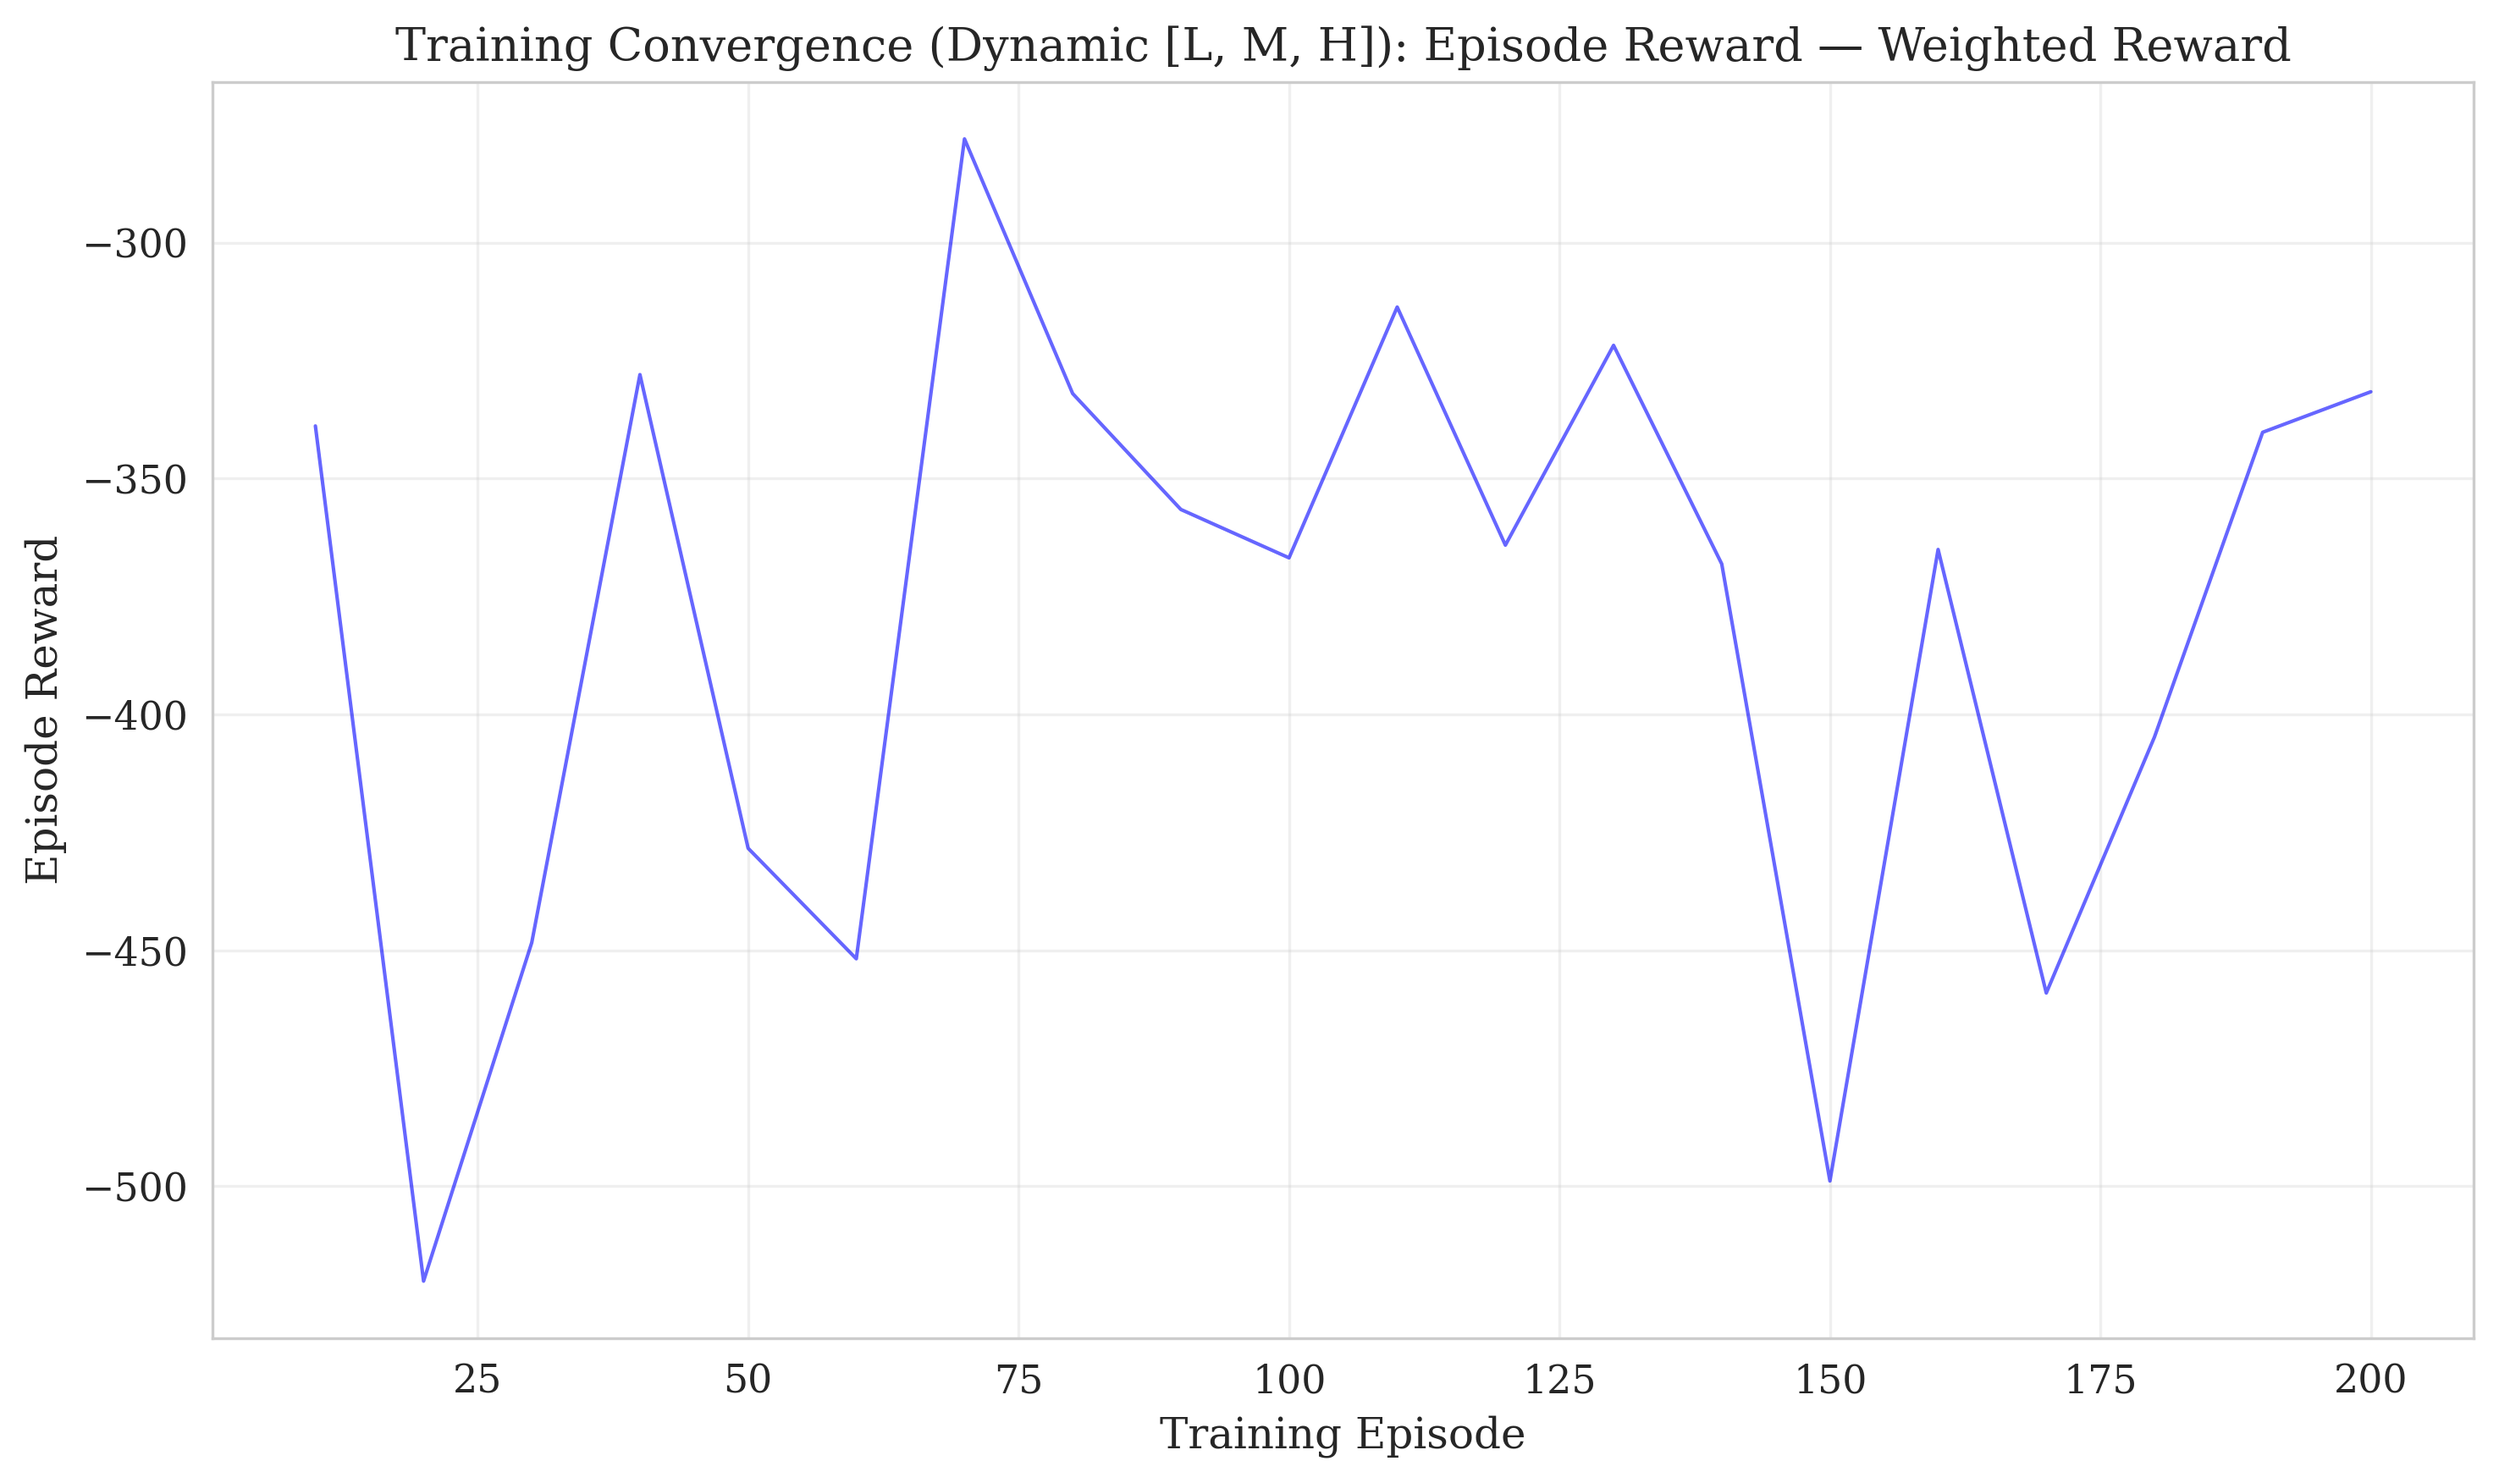
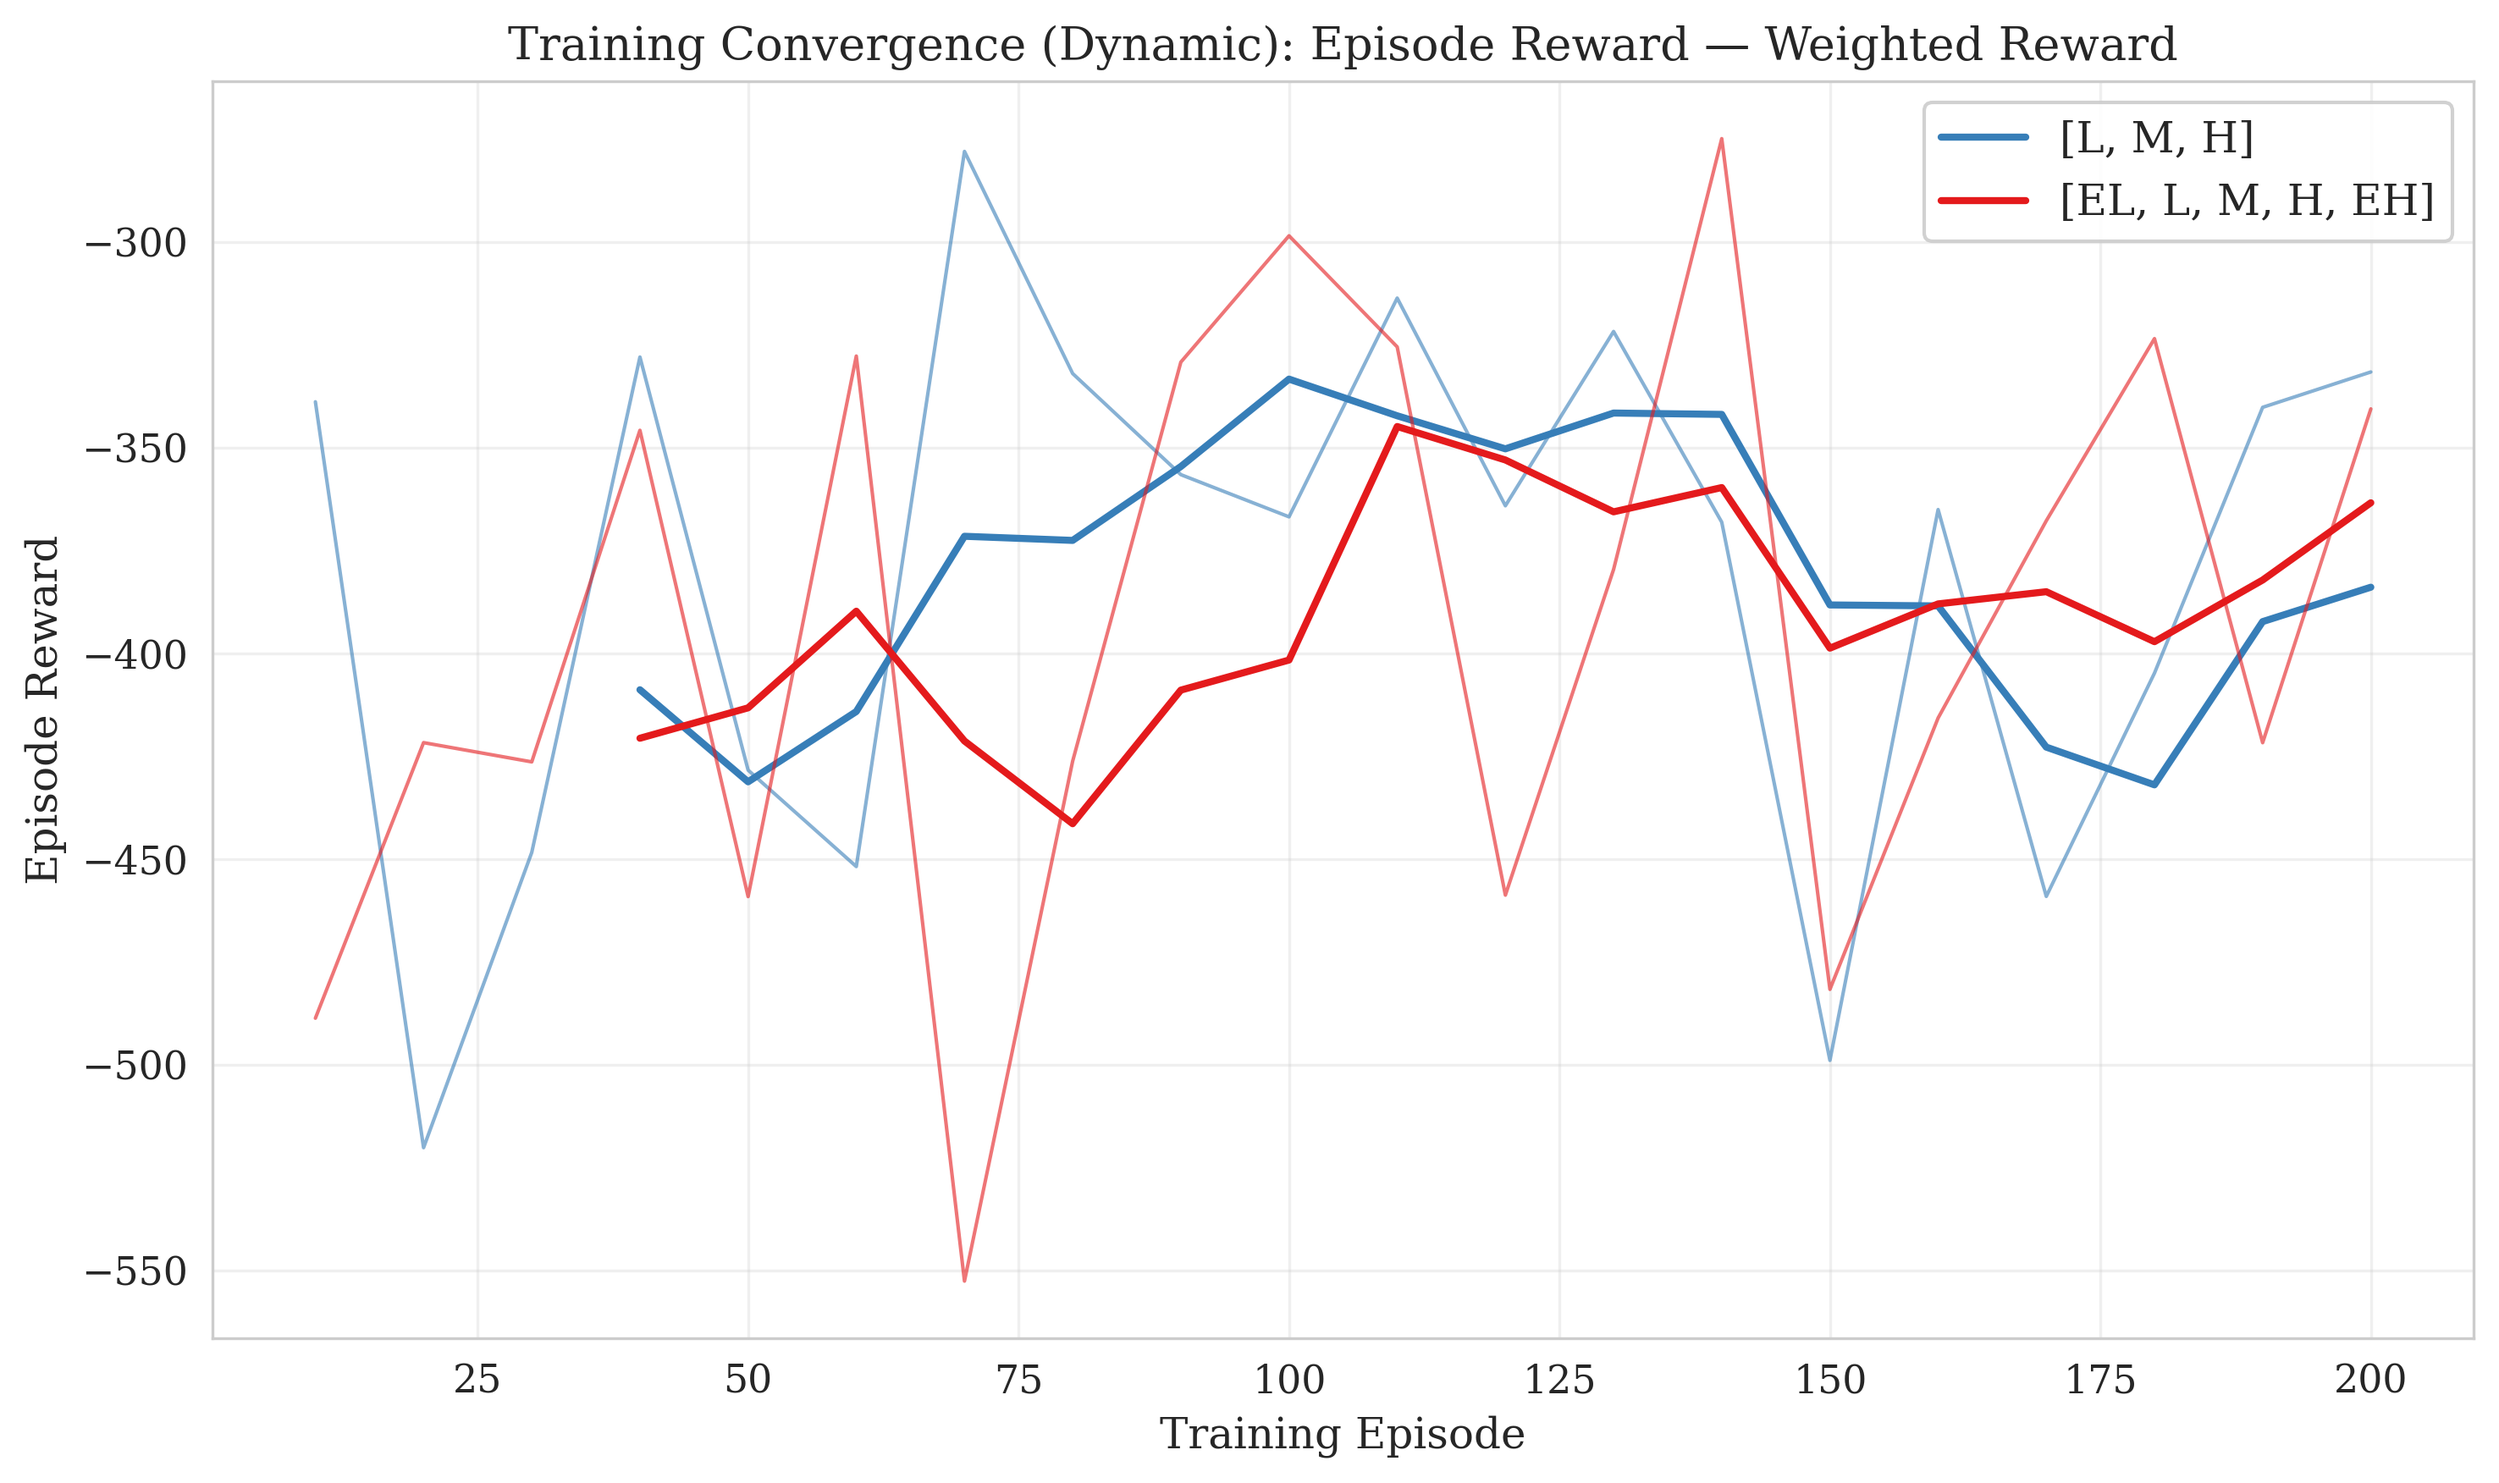
ver4.1

diff --git a/figures_static.py b/figures_static.py
@@ -129,6 +129,48 @@ def _single_timeseries(data, xlabel, ylabel, title, color, out_path, label):
     print(f"  ✓ {os.path.basename(out_path)}")
 
 
+def _multi_timeseries(exps, metric_key, xlabel, ylabel, title,
+                      colors, out_path, label_key):
+    """
+    Plot one time-series curve per experiment on the same axes.
+    Each curve is labelled by its dynamic profile pool abbreviation.
+    """
+    fig, ax = plt.subplots(figsize=(10, 6))
+    plotted = 0
+    for exp, color in zip(exps, colors):
+        if metric_key not in exp['data']:
+            continue
+        pool     = exp.get('dynamic_profile_set', [])
+        curve_label = f"[{abbrev_profile(pool)}]" if pool else exp['scenario_str']
+        steps  = np.array(exp['data'][metric_key]['steps'])
+        values = np.array(exp['data'][metric_key]['values'])
+        ax.plot(steps, values, alpha=0.6, color=color, linewidth=1)
+        # Moving average for a cleaner trend line
+        if len(values) >= 20:
+            window = min(20, len(values) // 5)
+            ma = np.convolve(values, np.ones(window) / window, mode='valid')
+            ax.plot(steps[window - 1:], ma, color=color, linewidth=2,
+                    label=curve_label)
+        else:
+            ax.plot(steps, values, color=color, linewidth=2, label=curve_label)
+        plotted += 1
+
+    if not plotted:
+        plt.close(fig)
+        print(f"  ⚠  No data for {label_key}")
+        return
+
+    ax.set_xlabel(xlabel)
+    ax.set_ylabel(ylabel)
+    ax.set_title(title)
+    ax.legend(loc='best', framealpha=0.9)
+    ax.grid(True, alpha=0.3)
+    plt.tight_layout()
+    plt.savefig(out_path, dpi=FIGURE_DPI, bbox_inches='tight')
+    plt.close()
+    print(f"  ✓ {os.path.basename(out_path)} ({plotted} scenarios)")
+
+
 # ---------------------------------------------------------------------------
 # Figure 1: Training Convergence
 # ---------------------------------------------------------------------------
@@ -182,38 +224,124 @@ def fig1_training_convergence(experiments, output_dir):
             label_key=f'fig1b{sfx}',
         )
 
-        # 1c/1d: Dynamic time-series — first dynamic exp for this formulation
+        # 1c/1d: Dynamic time-series — all pools for this reward formulation,
+        # each pool as a separate curve on the same axes.
         if not dynamic_exps:
             print(f"  ℹ  No {rf} dynamic experiments for fig1c/1d")
             continue
 
-        dyn_exp  = dynamic_exps[0]
-        pool     = dyn_exp.get('dynamic_profile_set', [])
-        pool_str = f" [{abbrev_profile(pool)}]" if pool else ''
+        # Group by pool size so each distinct pool gets one curve
+        seen_pools = {}
+        for exp in dynamic_exps:
+            pool      = tuple(exp.get('dynamic_profile_set', []))
+            pool_size = len(pool)
+            if pool_size not in seen_pools:
+                seen_pools[pool_size] = exp
 
-        if 'episode_reward' in dyn_exp['data']:
-            _single_timeseries(
-                data=dyn_exp['data']['episode_reward'],
-                xlabel=LABEL_EPISODE, ylabel=LABEL_REWARD,
-                title=f'Training Convergence (Dynamic{pool_str}): '
-                      f'Episode Reward — {rf_title} Reward',
-                color=COLOR_REWARD,
-                out_path=os.path.join(output_dir,
-                                      f'fig1c_dynamic_reward{sfx}.{FIGURE_FORMAT}'),
-                label=f'fig1c{sfx}',
-            )
+        # Sort pools smallest→largest for consistent ordering
+        pool_exps = [seen_pools[k] for k in sorted(seen_pools)]
 
-        if 'episode_beta' in dyn_exp['data']:
-            _single_timeseries(
-                data=dyn_exp['data']['episode_beta'],
-                xlabel=LABEL_EPISODE, ylabel=LABEL_BETA,
-                title=f'Training Convergence (Dynamic{pool_str}): '
-                      f'QoS Performance — {rf_title} Reward',
-                color=COLOR_BETA,
-                out_path=os.path.join(output_dir,
-                                      f'fig1d_dynamic_beta{sfx}.{FIGURE_FORMAT}'),
-                label=f'fig1d{sfx}',
-            )
+        # Colour palette for the curves (one per pool)
+        curve_colors = ['#377eb8', '#e41a1c', '#4daf4a', '#984ea3']
+
+        # fig1c: Episode Reward
+        _multi_timeseries(
+            exps=pool_exps,
+            metric_key='episode_reward',
+            xlabel=LABEL_EPISODE,
+            ylabel=LABEL_REWARD,
+            title=f'Training Convergence (Dynamic): Episode Reward — {rf_title} Reward',
+            colors=curve_colors,
+            out_path=os.path.join(output_dir,
+                                  f'fig1c_dynamic_reward{sfx}.{FIGURE_FORMAT}'),
+            label_key=f'fig1c{sfx}',
+        )
+
+        # fig1d: QoS Performance
+        _multi_timeseries(
+            exps=pool_exps,
+            metric_key='episode_beta',
+            xlabel=LABEL_EPISODE,
+            ylabel=LABEL_BETA,
+            title=f'Training Convergence (Dynamic): QoS Performance — {rf_title} Reward',
+            colors=curve_colors,
+            out_path=os.path.join(output_dir,
+                                  f'fig1d_dynamic_beta{sfx}.{FIGURE_FORMAT}'),
+            label_key=f'fig1d{sfx}',
+        )
+
+    # ── Combined figures: 4 curves each (all pools × all reward formulations) ──
+    # Collect one experiment per (pool_size, reward_formulation) combination.
+    # Color encodes reward formulation; line style encodes pool.
+    # Blues  (#377eb8 solid, #377eb8 dashed)  → global
+    # Oranges (#d95f02 solid, #d95f02 dashed) → weighted
+    # Solid  → smaller pool  (e.g. [L,M,H])
+    # Dashed → larger pool   (e.g. [EL,L,M,H,EH])
+
+    rf_color = {'global': '#377eb8', 'weighted': '#d95f02'}
+    pool_style = {}   # pool_size → linestyle, filled in below
+
+    # Gather all unique (pool_size, rf) combos from dynamic experiments
+    combos = {}   # (pool_size, rf) → exp
+    for exp in experiments:
+        if exp['category'] != 'dynamic':
+            continue
+        rf        = exp.get('reward_formulation', 'global')
+        pool_size = len(exp.get('dynamic_profile_set', []))
+        key       = (pool_size, rf)
+        if key not in combos:
+            combos[key] = exp
+
+    if combos:
+        # Assign line styles to pool sizes: smallest pool → solid, rest → dashed styles
+        for i, ps in enumerate(sorted({k[0] for k in combos})):
+            pool_style[ps] = ['-', '--', ':', '-.'][i % 4]
+
+        for metric_key, ylabel, fname_base, title_base in [
+            ('episode_reward', LABEL_REWARD,
+             'fig1c_dynamic_reward_combined',
+             'Training Convergence (Dynamic): Episode Reward'),
+            ('episode_beta', LABEL_BETA,
+             'fig1d_dynamic_beta_combined',
+             'Training Convergence (Dynamic): QoS Performance'),
+        ]:
+            fig, ax = plt.subplots(figsize=(10, 6))
+            plotted = 0
+
+            for (pool_size, rf), exp in sorted(combos.items()):
+                if metric_key not in exp['data']:
+                    continue
+                pool  = exp.get('dynamic_profile_set', [])
+                color = rf_color.get(rf, 'gray')
+                ls    = pool_style.get(pool_size, '-')
+                pool_abbrev = abbrev_profile(pool) if pool else exp['scenario_str']
+                label = f"[{pool_abbrev}] {rf.capitalize()}"
+
+                steps  = np.array(exp['data'][metric_key]['steps'])
+                values = np.array(exp['data'][metric_key]['values'])
+                ax.plot(steps, values, alpha=0.2, color=color, linewidth=0.8,
+                        linestyle=ls)
+                if len(values) >= 20:
+                    window = min(20, len(values) // 5)
+                    ma = np.convolve(values, np.ones(window) / window, mode='valid')
+                    ax.plot(steps[window - 1:], ma, color=color, linewidth=2,
+                            linestyle=ls, label=label)
+                else:
+                    ax.plot(steps, values, color=color, linewidth=2,
+                            linestyle=ls, label=label)
+                plotted += 1
+
+            if plotted:
+                ax.set_xlabel(LABEL_EPISODE)
+                ax.set_ylabel(ylabel)
+                ax.set_title(title_base)
+                ax.legend(loc='best', framealpha=0.9)
+                ax.grid(True, alpha=0.3)
+                plt.tight_layout()
+                out_path = os.path.join(output_dir, f'{fname_base}.{FIGURE_FORMAT}')
+                plt.savefig(out_path, dpi=FIGURE_DPI, bbox_inches='tight')
+                print(f"  ✓ {fname_base}.{FIGURE_FORMAT} ({plotted} curves)")
+            plt.close(fig)
 
 
 # ---------------------------------------------------------------------------
